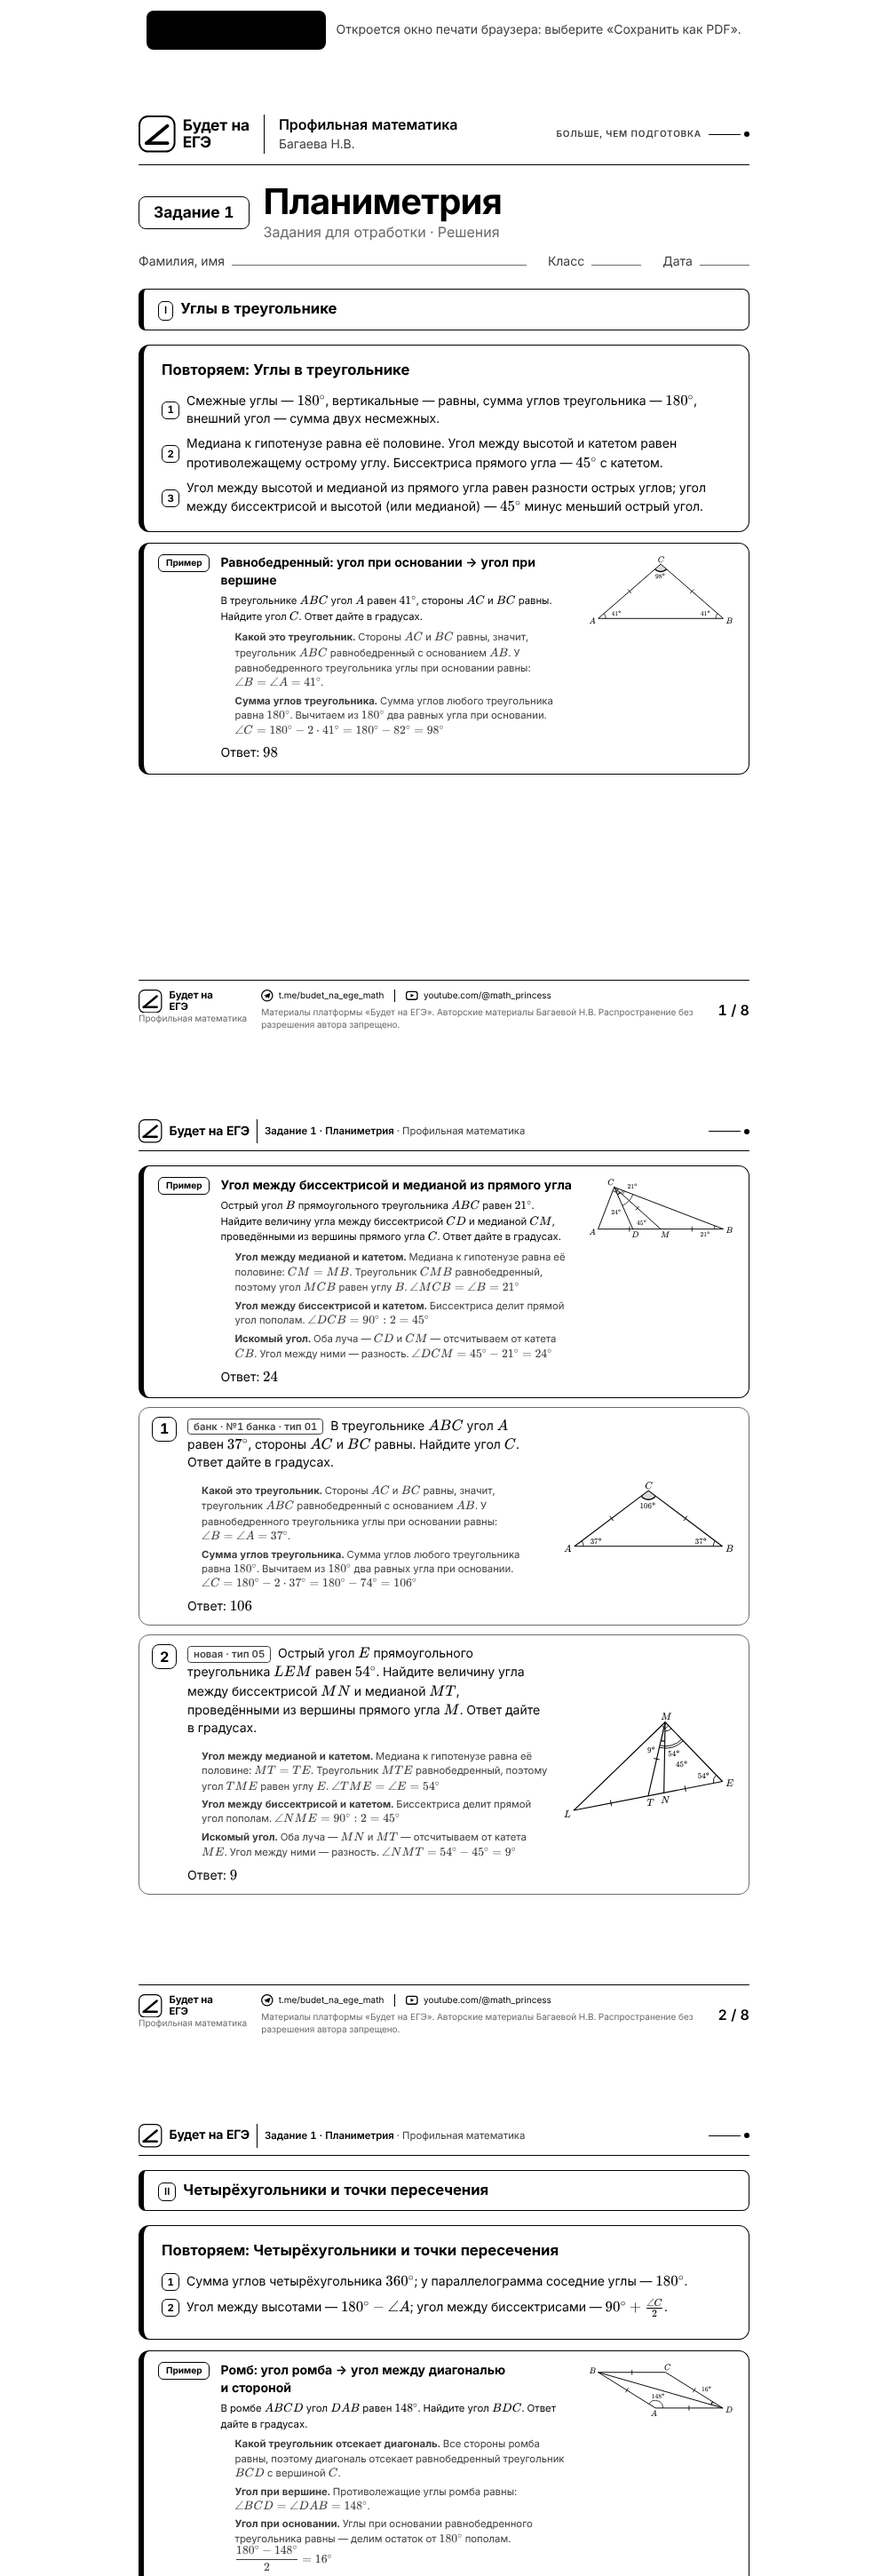
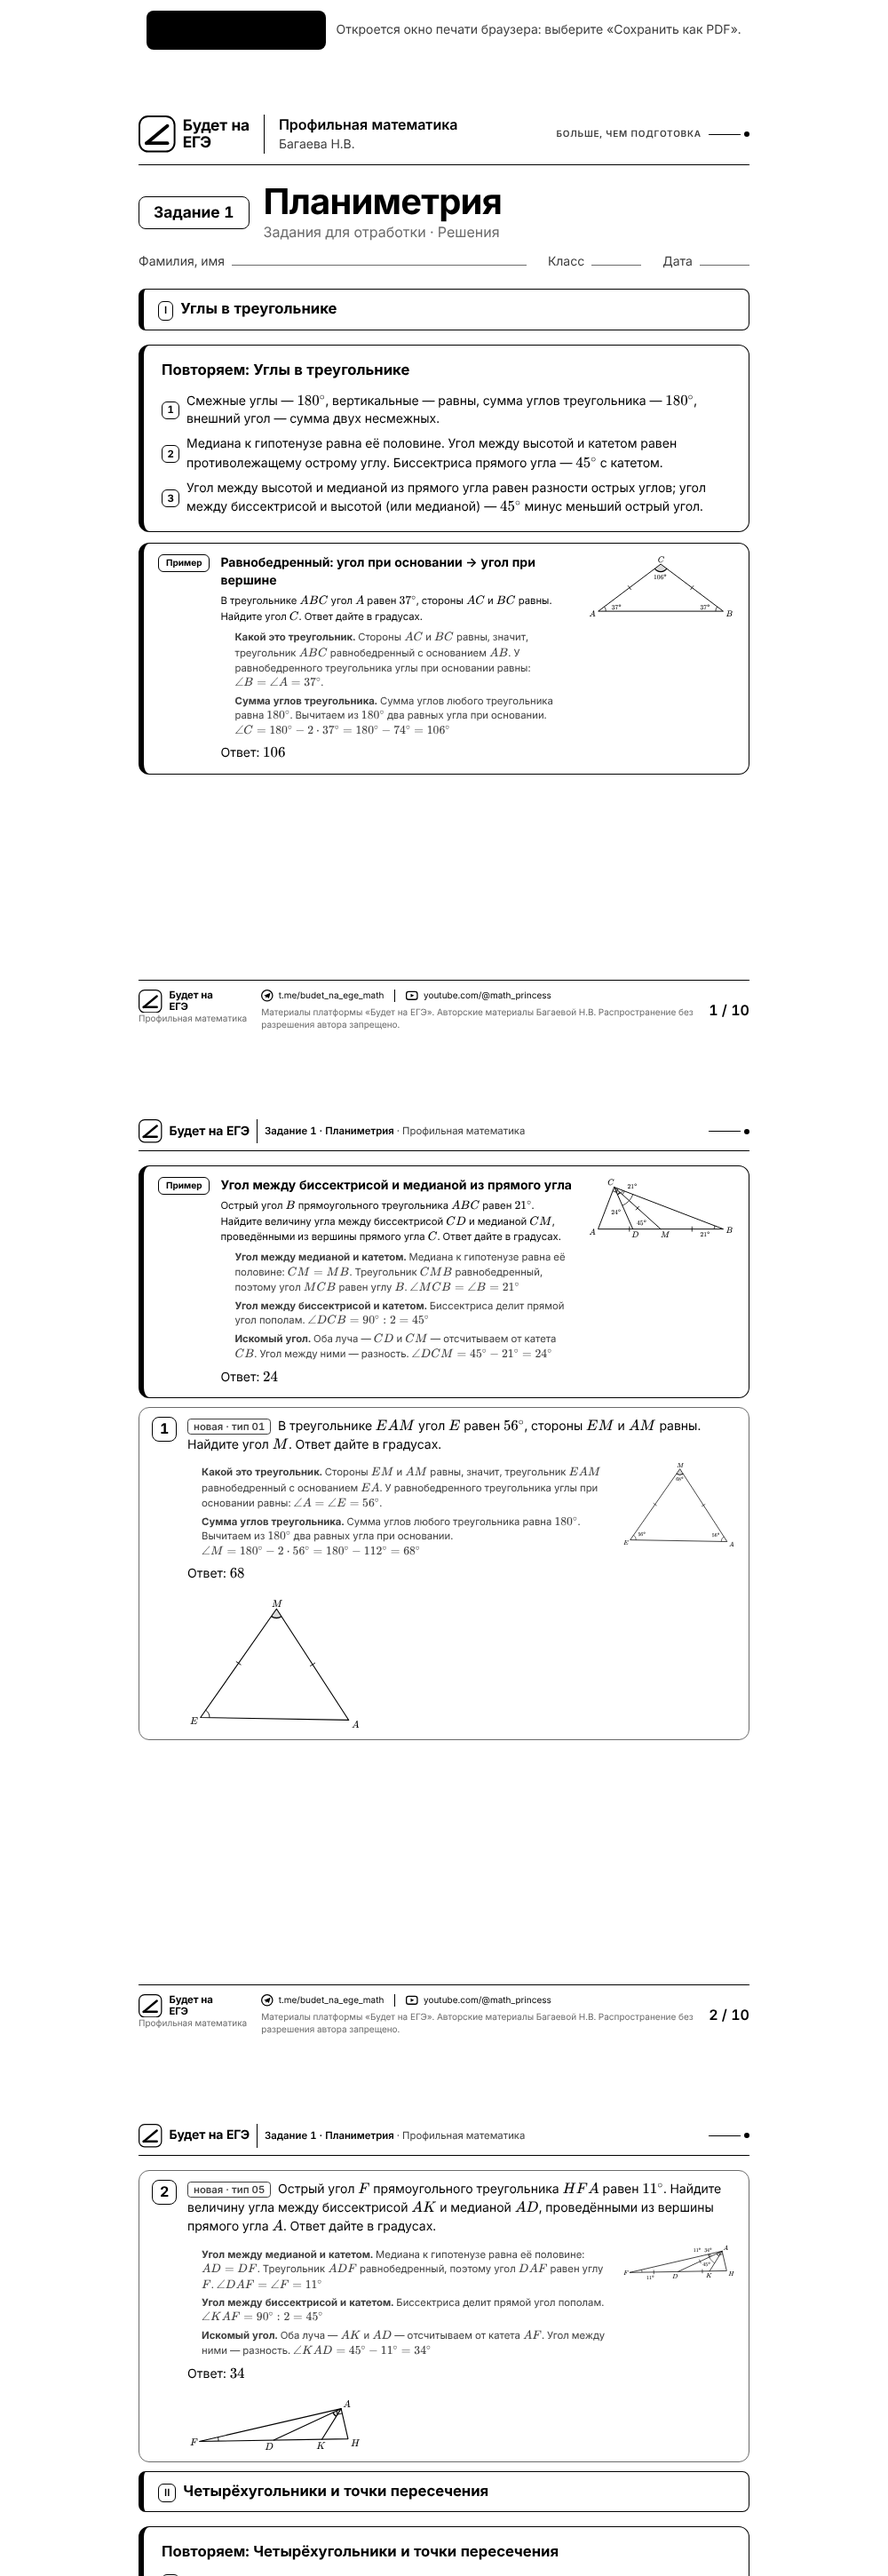
Задание №1, PR3: лист учителя, поле кнопок подсказки, тесты листа
- лист учителя: рисунок условия тот же, что у ученика, под текстом;
  чертёж со всеми построениями обтекается решением — карточка не
  выходит за поле и не наезжает на подвал;
- заголовок разобранного примера в рамке «Повторяем» набран KaTeX;
- поле вопросов подсказки varianty → knopki: проверка бандла ловит
  это имя как признак банка прототипов;
- тест листов: на листе нет сырого TeX;
- README движка и docs/tasks/01-planimetriya-03-trenazher.md.

Claude-Session: https://claude.ai/code/session_01Ubb4c27EzgVQMXCLdWXDtm

diff --git a/app/src/lib/planimetriya/sheet1.ts b/app/src/lib/planimetriya/sheet1.ts
@@ -343,6 +343,7 @@ export interface Ramka {
   /** Пункты «Повторяем» — HTML с формулами KaTeX. */
   items: string[];
   primery: {
+    /** Название типа, набранное KaTeX. */
     title: string;
     conditionHtml: string;
     solutionHtml: string;
@@ -378,7 +379,7 @@ export function ramkaDlya(
       fipi: svobodnaya?.n ?? null,
     });
     primery.push({
-      title: s.title,
+      title: typeset(s.title),
       conditionHtml: typeset(s.uslovie),
       solutionHtml: `${s.reshenieLista}<p class="sheet-task-answer">${SHEET_1.otvet}: <b>${s.razbor.otvetHtml}</b></p>`,
       figureSvg: s.razbor.risunokSvg,
@@ -447,6 +448,7 @@ interface SheetTask {
   options: null;
   figureSvg: string | null;
   figureWidth: number;
+  figureBelow?: boolean;
   solutionHtml: string | null;
 }
 
@@ -566,12 +568,15 @@ export function sheetSpec1(p: SheetParams1, list: SobrannyyList, vid: VidLista) 
     options: null,
     figureSvg: z.figureSvg,
     figureWidth: shirinaRisunka(z.figureSvg),
+    /* Рисунок условия — под текстом: колонке решения нужна вся ширина,
+       выкладки в строке не переносятся. */
+    figureBelow: true,
     solutionHtml:
-      `<div class="z1-sheet-reshenie"><div>${z.solutionHtml}<p class="sheet-task-answer">${SHEET_1.otvet}: <b>${z.answerHtml}</b></p></div>` +
+      '<div class="z1-sheet-reshenie">' +
       (z.figureUchitelSvg === null
         ? ''
-        : `<figure class="sheet-figure z1-sheet-reshenie__pic" style="width:${shirinaRisunka(z.figureUchitelSvg, 44)}mm">${z.figureUchitelSvg}</figure>`) +
-      '</div>',
+        : `<figure class="sheet-figure z1-sheet-reshenie__pic" style="width:${shirinaRisunka(z.figureUchitelSvg, 34)}mm">${z.figureUchitelSvg}</figure>`) +
+      `${z.solutionHtml}<p class="sheet-task-answer">${SHEET_1.otvet}: <b>${z.answerHtml}</b></p></div>`,
   });
   const nV = list.poVariantam.length;
   const variantTitle = (i: number) => (nV > 1 ? `Вариант ${i + 1}` : undefined);

diff --git a/app/src/lib/planimetriya/bank/selftest.ts b/app/src/lib/planimetriya/bank/selftest.ts
@@ -45,7 +45,7 @@ function teksty(proto: number, p: Params): { stroki: string[]; formuly: string[]
       if (k.tex !== '') formuly.push(k.tex);
     }
   }
-  for (const v of r.voprosy) stroki.push(v.vopros, v.poyasnenie, ...v.varianty);
+  for (const v of r.voprosy) stroki.push(v.vopros, v.poyasnenie, ...v.knopki);
   return { stroki, formuly };
 }
 
@@ -75,9 +75,9 @@ function proveritZadachu(proto: number, p: Params, metka: string, katex: Typeset
   for (const v of r.voprosy) {
     if (v.sloy !== undefined && v.sloy > shagov)
       out.push(`${metka}: вопрос «${v.vopros}» ссылается на слой ${v.sloy}`);
-    if (v.verno < 0 || v.verno >= v.varianty.length)
+    if (v.verno < 0 || v.verno >= v.knopki.length)
       out.push(`${metka}: у вопроса «${v.vopros}» нет верного варианта`);
-    if (new Set(v.varianty).size !== v.varianty.length)
+    if (new Set(v.knopki).size !== v.knopki.length)
       out.push(`${metka}: у вопроса «${v.vopros}» повторяются варианты`);
   }
   if (r.shagi.length === 0) out.push(`${metka}: решение без шагов`);

diff --git a/app/src/components/tasks/planimetriya/Trenazher1Reshenie.tsx b/app/src/components/tasks/planimetriya/Trenazher1Reshenie.tsx
@@ -268,7 +268,7 @@ export function Trenazher1Reshenie({
             <div className="z11-resh__shag">
               <p className="z11-resh__q" dangerouslySetInnerHTML={{ __html: tekVopros.vopros }} />
               <div className="z11-resh__opts">
-                {tekVopros.varianty.map((o, k) => (
+                {tekVopros.knopki.map((o, k) => (
                   <button
                     key={k}
                     type="button"
@@ -398,7 +398,7 @@ function PredShag({
     <div className="z11-resh__pred">
       <p className="z11-resh__pred-otvet">
         <span dangerouslySetInnerHTML={{ __html: vopros.vopros }} />{' '}
-        <b dangerouslySetInnerHTML={{ __html: vopros.varianty[vopros.verno] ?? '' }} />
+        <b dangerouslySetInnerHTML={{ __html: vopros.knopki[vopros.verno] ?? '' }} />
       </p>
       {vopros.poyasnenie === '' ? null : (
         <p

diff --git a/app/src/app/zadaniya/1/pechat/pechat1.css b/app/src/app/zadaniya/1/pechat/pechat1.css
@@ -63,16 +63,12 @@
   width: 100%;
   height: auto;
 }
-/* Решение на листе учителя: шаги и чертёж со всеми построениями. */
+/* Решение на листе учителя: чертёж со всеми построениями справа,
+   шаги его обтекают — колонка условия не шире, чем у ученика. */
 .z1-sheet-reshenie {
-  display: flex;
-  gap: calc(var(--sheet-step) * 3);
-  align-items: flex-start;
-}
-.z1-sheet-reshenie > div {
-  flex: 1 1 auto;
-  min-width: 0;
+  display: flow-root;
 }
 .z1-sheet-reshenie__pic {
-  flex: none;
+  float: right;
+  margin: 0 0 var(--sheet-step) calc(var(--sheet-step) * 3);
 }

diff --git a/app/src/lib/planimetriya/trenazher/zadacha.ts b/app/src/lib/planimetriya/trenazher/zadacha.ts
@@ -150,7 +150,7 @@ export function razreshit(plan: ZadachaPlan, bank: readonly UslovieBanka[]): Raz
 
 export interface VoprosHtml {
   vopros: string;
-  varianty: string[];
+  knopki: string[];
   verno: number;
   poyasnenie: string;
   /** Чертёж шага подсказки: нужный элемент подсвечен. */
@@ -233,7 +233,7 @@ export function sostavZadachi(z: RazreshennayaZadacha) {
   const podskazki: Podskazki1 = {
     voprosy: r.voprosy.map((v) => ({
       vopros: typeset(ren(v.vopros)),
-      varianty: v.varianty.map((x) => typeset(ren(x))),
+      knopki: v.knopki.map((x) => typeset(ren(x))),
       verno: v.verno,
       poyasnenie: typeset(ren(v.poyasnenie)),
       risunokSvg:

diff --git a/app/src/lib/planimetriya/trenazher/selftest.ts b/app/src/lib/planimetriya/trenazher/selftest.ts
@@ -151,6 +151,9 @@ export function checkTrenazher(seedov = 3): ItogTrenazhera {
           .join(',');
       if (ids(uchenik) !== ids(uchitel))
         problems.push(`лист ${q}: у ученика и учителя разные задачи`);
+      /* Сырой TeX на листе: всё, что в $…$, должно быть набрано KaTeX. */
+      const syroy = JSON.stringify([uchenik, uchitel]).match(/\$[^$"]*\\[a-z]+[^$"]*\$/);
+      if (syroy !== null) problems.push(`лист ${q}: сырой TeX ${syroy[0].slice(0, 40)}`);
       listov += 1;
     } catch (e) {
       problems.push(`лист ${q}: ${(e as Error).message}`);

diff --git a/app/src/lib/planimetriya/reshenie/types.ts b/app/src/lib/planimetriya/reshenie/types.ts
@@ -32,8 +32,8 @@ export interface ShagResheniya {
 
 export interface VoprosPodskazki {
   vopros: string;
-  /** Варианты ответа, формулы в $…$. Верный — под номером verno. */
-  varianty: string[];
+  /** Кнопки-ответы, формулы в $…$. Верная — под номером verno. */
+  knopki: string[];
   verno: number;
   /** Пояснение после верного ответа. */
   poyasnenie: string;

diff --git a/app/src/components/tasks/planimetriya/Generator1.tsx b/app/src/components/tasks/planimetriya/Generator1.tsx
@@ -556,7 +556,7 @@ function RamkaPreview({ ramka }: { ramka: Ramka }) {
         <div className="z1-a4__primer" key={i}>
           <div>
             <p className="z1-a4__primer-title">
-              {SHEET_1.primer}. <Tex text={p.title} />
+              {SHEET_1.primer}. <span dangerouslySetInnerHTML={{ __html: p.title }} />
             </p>
             <div dangerouslySetInnerHTML={{ __html: p.conditionHtml }} />
             <div

diff --git a/app/src/lib/planimetriya/reshenie/obshchee.ts b/app/src/lib/planimetriya/reshenie/obshchee.ts
@@ -39,7 +39,13 @@ export function vopros(
   sloy?: number,
   verno = 0,
 ): VoprosPodskazki {
-  return { vopros: tekst, varianty, verno, poyasnenie, ...(sloy === undefined ? {} : { sloy }) };
+  return {
+    vopros: tekst,
+    knopki: varianty,
+    verno,
+    poyasnenie,
+    ...(sloy === undefined ? {} : { sloy }),
+  };
 }
 
 /** Какой угол по виду: острый, прямой, тупой. */
